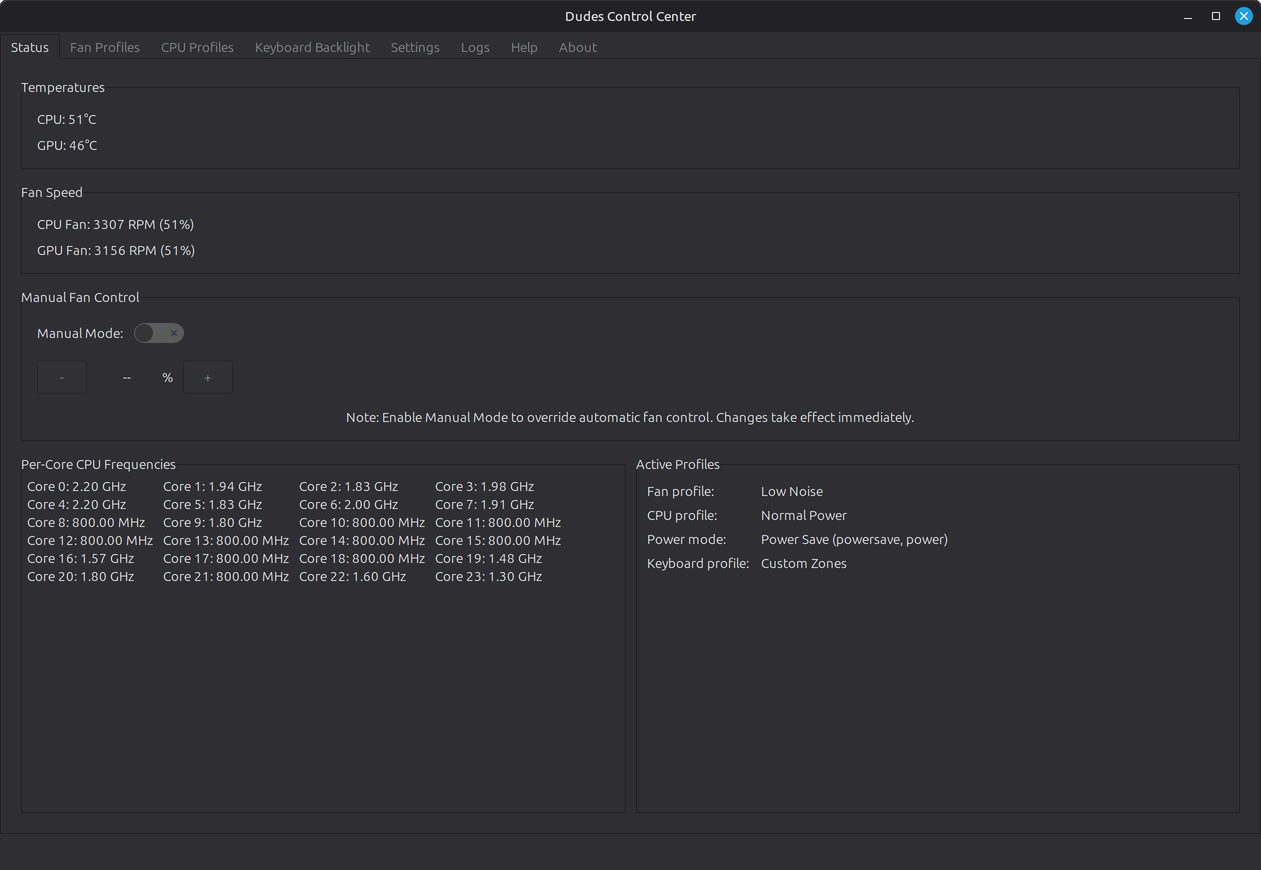
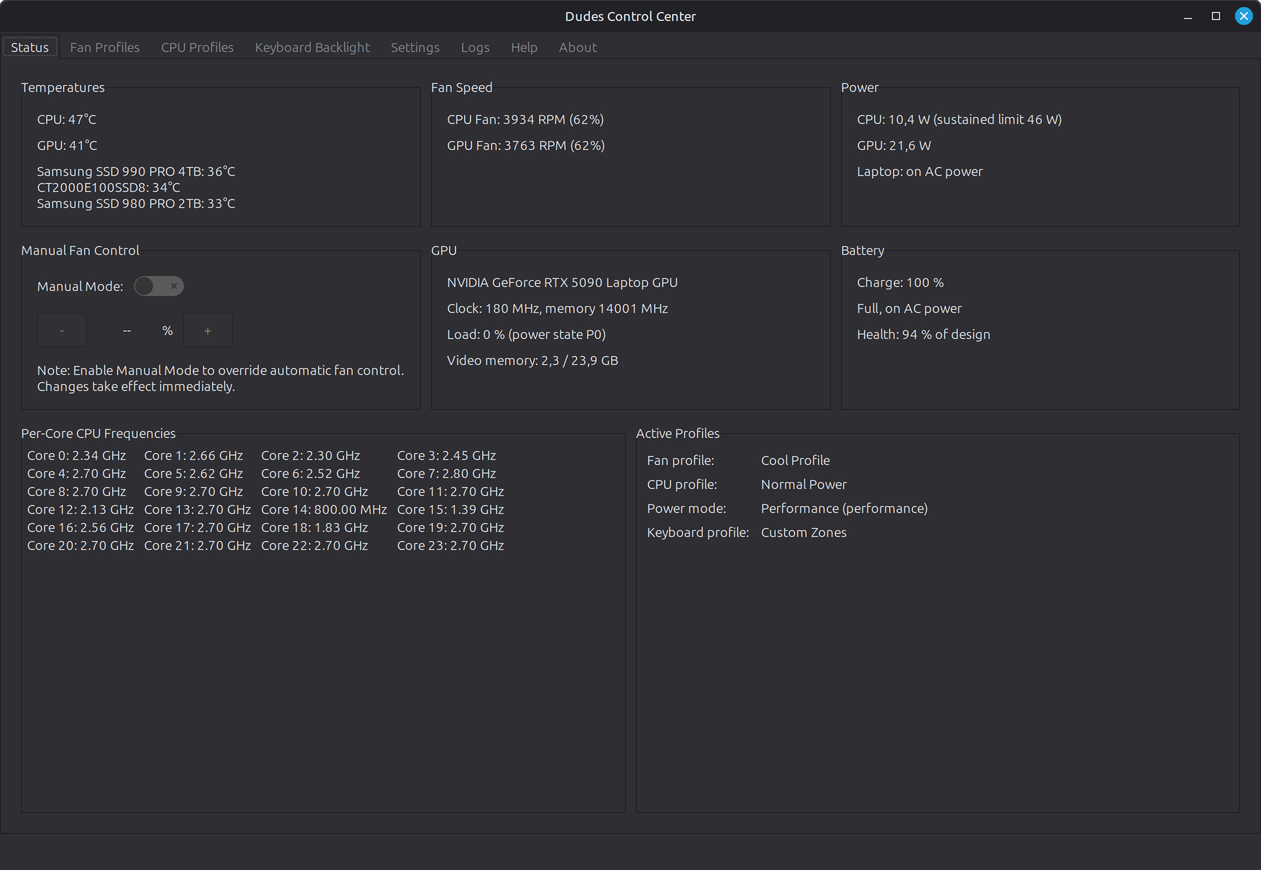
Docs: renewed Status, Logs and About screenshots
The home folder path in the Logs screenshot is blurred.

diff --git a/CHANGELOG.md b/CHANGELOG.md
@@ -21,6 +21,9 @@ Programs and services were named `dudes-control-center-*` before 1.19.0 (for exa
 - **The NVIDIA GPU could never power down**: the fan daemon ran `nvidia-smi` for the GPU temperature on every 5-second control step and every Status request, which wakes a GPU in on-demand mode. It now checks the GPU's PCI power state first and asks only while the GPU is awake (at most every 3 s, all values in one call); while it sleeps, the EC's GPU sensor gives the temperature. Other programs that use the GPU still keep it on (see README, Troubleshooting).
 - **Decimals lost with a decimal-comma locale**: the GUI read numbers from the daemons with `atof()`, which follows the locale; with e.g. German or Austrian number format "4.7" became 4 (CPU load in the CPU tab, now also the power values). Numbers from the daemons and data files are read locale-independently.
 
+### Documentation
+- README screenshots of the Status (new Power, GPU and Battery sections), Logs and About tabs renewed; the home folder path in the Logs screenshot is blurred.
+
 ## [1.36.1] - 2026-11-25
 
 ### Fixed
